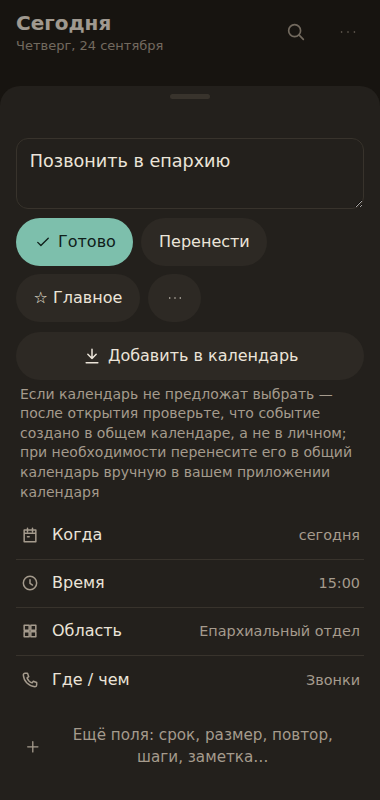
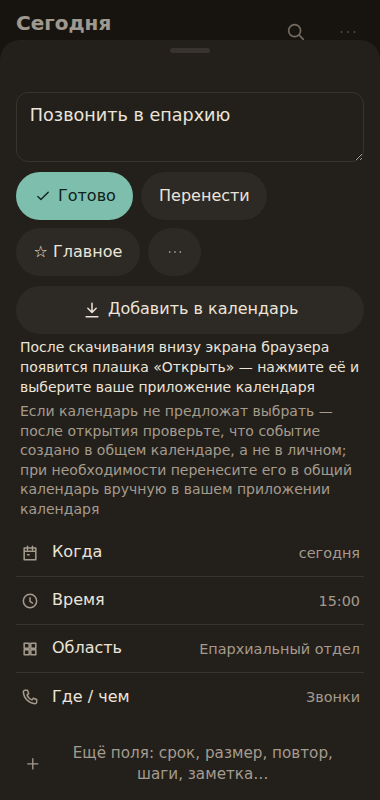
Подсказка под кнопкой скачивания: плашка «Открыть» внизу экрана браузера; без инструкций про шторку и «Загрузки»
Claude-Session: https://claude.ai/code/session_017GKqcB6R2Wkk87CHjqXcBD

diff --git a/docs/js/views/calendar.js b/docs/js/views/calendar.js
@@ -11,12 +11,7 @@ import * as st from '../store.js';
 import { buildIcs, checkIcs } from '../ics.js';
 import { fmtDay } from '../dates.js';
 
-export const STEPS = 'Файл готов. Смахните шторку уведомлений сверху экрана → нажмите на уведомление о загруженном файле → выберите ваше приложение календаря';
-export const HINTS = {
-  shared: 'Выберите ваше приложение календаря в списке приложений.',
-  opened: 'Если вместо календаря началась загрузка: откройте Загрузки → нажмите на файл → выберите ваше приложение календаря.',
-  downloaded: STEPS,
-};
+export const STEPS = 'После скачивания внизу экрана браузера появится плашка «Открыть» — нажмите её и выберите ваше приложение календаря';
 export const CHECK_HINT = 'Если календарь не предложат выбрать — после открытия проверьте, что событие создано в общем календаре, а не в личном; при необходимости перенесите его в общий календарь вручную в вашем приложении календаря';
 export const autoCalendar = () => st.settings().autoCalendar !== false;
 export const METHODS = {
@@ -188,9 +183,9 @@ export function calendarLink(text, name, { label = 'Добавить в кале
   }, icon('download', 20), label);
 }
 
-/** Заметный блок с шагами после скачивания. */
-export function stepsBlock() {
-  return h('div.cal-steps', { role: 'status' }, icon('check', 20), h('span', STEPS));
+/** Подсказка под кнопкой скачивания; после нажатия — та же, но заметным блоком. */
+export function stepsBlock(done = true) {
+  return done ? h('div.cal-steps', { role: 'status' }, icon('check', 20), h('span', STEPS)) : h('p.small.cal-hint', STEPS);
 }
 
 /** Файл события для задачи. Для закрытых областей в файле только «Встреча». */
@@ -212,8 +207,8 @@ export function calendarSheet(t, { kind, done = false } = {}) {
   let shown = done;
   return sheet((api) => h('div',
     h('p.muted', f.title + (t.date ? ' · ' + fmtDay(t.date, st.clock()) + (t.time ? ', ' + t.time : '') : '')),
-    shown ? stepsBlock() : null,
     calendarLink(f.text, f.name, { label: shown ? 'Скачать файл ещё раз' : 'Добавить в календарь', source: 'sheet', onDone: () => { shown = true; api.refresh(); } }),
+    stepsBlock(shown),
     h('p.muted.small.cal-hint', CHECK_HINT),
     shown ? h('button.btn.block', { onclick: () => api.close() }, 'Готово') : null,
   ), { title: 'Календарь' });

diff --git a/tests/e2e-diag.spec.js b/tests/e2e-diag.spec.js
@@ -139,9 +139,9 @@ test('одна пробная попытка: экран показывает п
   for (const t of types) expect(t).toBe('text/calendar;charset=utf-8');
   // по умолчанию — никаких программных кликов
   expect(await page.evaluate(() => window.__anchors)).toEqual([]);
-  await expect(dlg.getByText('Файл готов. Смахните шторку уведомлений сверху экрана → нажмите на уведомление о загруженном файле → выберите ваше приложение календаря')).toBeVisible();
+  await expect(dlg.locator('.cal-steps', { hasText: 'После скачивания внизу экрана браузера появится плашка «Открыть» — нажмите её и выберите ваше приложение календаря' })).toBeVisible();
   // без привязки к конкретному приложению календаря
-  expect(await dlg.innerText()).not.toMatch(/Яндекс/);
+  expect(await dlg.innerText()).not.toMatch(/Яндекс|шторк|Загрузк|уведомлени/);
   await expect(dlg.getByText(/выберите ваше приложение календаря/)).toBeVisible();
   await dlg.getByRole('button', { name: 'началась загрузка файла' }).click();
   await expect(pre).toContainText('На экране: началась загрузка файла');

diff --git a/docs/js/views/settings.js b/docs/js/views/settings.js
@@ -234,8 +234,8 @@ export function calendarDiagSheet() {
       last && !last.seen ? h('div.card',
         h('div', 'Что произошло на экране после последней попытки?'),
         h('div.chips.wrap', Object.keys(SEEN).map((k) => h('button.chip', { onclick: () => { markLast(k); api.refresh(); } }, SEEN[k])))) : null,
-      downloaded ? stepsBlock() : null,
       calendarLink(testIcs(), 'proverka.ics', { label: 'Скачать пробный файл', source: 'diag', onDone: () => { downloaded = true; api.refresh(); } }),
+      stepsBlock(downloaded),
       h('p.muted.small', 'Основной способ: вы сами нажимаете ссылку, файл события «Проверка планировщика (можно удалить)» на завтра, 10:00 скачивается. Остальные способы — только для проверки, по умолчанию не используются:'),
       h('div.chips.wrap', ['share', 'link', 'nav', 'auto'].map((k) => h('button.chip', { onclick: () => attempt(k) }, METHODS[k]))),
       h('div.row-btns',

diff --git a/docs/js/views/session.js b/docs/js/views/session.js
@@ -72,7 +72,6 @@ export function openRecordForm() {
       h('h2', 'Записано'),
       h('p', { style: { fontSize: '1.1rem', margin: 0 } }, r.client),
       h('p.muted', { style: { margin: 0 } }, sessionText(r, '', st.clock()).replace(/^сессия [^—]*— /, '')),
-      calDone ? h('div', { style: { maxWidth: '22rem', marginTop: '1rem' } }, stepsBlock()) : null,
       h('div', { style: { marginTop: '1rem', width: '100%', maxWidth: '22rem' } },
         calendarLink(sessionIcs(r, st.clock()), 'sessiya-' + r.start.date + '.ics', {
           label: calDone ? 'Скачать файл ещё раз' : 'Добавить в календарь', source: 'session',
@@ -81,7 +80,8 @@ export function openRecordForm() {
             calDone = true;
             s.refresh();
           },
-        })),
+        }),
+        stepsBlock(!!calDone)),
       h('p.muted.small.cal-hint', { style: { maxWidth: '22rem' } }, CHECK_HINT));
   }
 }

diff --git a/docs/js/views/task.js b/docs/js/views/task.js
@@ -199,11 +199,11 @@ export function openTask(id) {
     const calKind = calendarKind(t);
     const calFile = calKind && !done ? taskIcs(t, calKind) : null;
     const calBox = calFile ? h('div.cal-box',
-      calShown ? stepsBlock() : null,
       calendarLink(calFile.text, calFile.name, {
         label: calShown ? 'Скачать файл ещё раз' : 'Добавить в календарь', cls: '.btn.block', source: 'task',
         onDone: () => { calShown = true; s.refresh(); },
       }),
+      stepsBlock(!!calShown),
       h('p.muted.small.cal-hint', CHECK_HINT)) : null;
 
     return h('div.form',

diff --git a/docs/sw.js b/docs/sw.js
@@ -1,5 +1,5 @@
 // Service worker: кэш всего приложения. Данные (IndexedDB) он не трогает.
-const VERSION = 'v9';
+const VERSION = 'v10';
 const CACHE = 'planner-' + VERSION;
 const FILES = [
   './',

diff --git a/README.md b/README.md
@@ -150,16 +150,13 @@ GitHub Pages нужен только для того, чтобы один раз
   кнопка **«Добавить в календарь»**.
 - **Сессия, записанная ассистентом**, — кнопка «Добавить в календарь» на экране «Записано».
 
-Сразу после нажатия появляется заметный блок:
-«Файл готов. Смахните шторку уведомлений сверху экрана → нажмите на уведомление о загруженном
-файле → выберите ваше приложение календаря». Если уведомление уже смахнули — файл лежит в «Загрузках».
+Под кнопкой всегда есть подсказка, а после нажатия она выделяется заметным блоком:
+«После скачивания внизу экрана браузера появится плашка «Открыть» — нажмите её и выберите ваше приложение календаря».
 
 **Проверка на своём телефоне (сделайте один раз, в Chrome и в Яндекс.Браузере):**
 1. Сохраните задачу «проверка завтра в 10» → в сообщении внизу нажмите **«В календарь»**.
-2. Chrome: внизу мелькнёт «Файл скачан» / появится уведомление о загрузке. Яндекс.Браузер: панель
-   загрузки внизу или уведомление.
-3. Смахните шторку → нажмите уведомление о файле → выберите ваше приложение календаря → событие
-   «Проверка» на завтра, 10:00. Удалите его.
+2. Внизу экрана браузера появится плашка о скачанном файле с кнопкой **«Открыть»** — нажмите её.
+3. Выберите ваше приложение календаря → событие «Проверка» на завтра, 10:00. Удалите его.
 4. Если ничего не скачалось — Меню → Настройки → **«Диагностика календаря»** → «Скачать пробный
    файл» → «Скопировать текст» и пришлите этот текст.
 

diff --git a/DECISIONS.md b/DECISIONS.md
@@ -406,3 +406,13 @@ Chromium отсутствует.
   приложение, которое выбрал человек (обычно Google Календарь). Раздел README о настройке общего
   календаря в Яндексе оставлен: сам общий календарь по-прежнему там. Тесты проверяют, что на экране
   диагностики и в листе после скачивания слова «Яндекс» нет.
+
+## Подсказка после скачивания — плашка «Открыть»
+- Подсказка под кнопкой скачивания (в карточке задачи, в листе «Календарь», на экране сессии и в
+  диагностике): «После скачивания внизу экрана браузера появится плашка «Открыть» — нажмите её и
+  выберите ваше приложение календаря». Видна сразу под кнопкой; после нажатия та же фраза
+  становится заметным блоком. Инструкции про шторку уведомлений и меню «Загрузки» убраны из
+  приложения и README: на разных телефонах они ненадёжны, а плашка браузера внизу экрана
+  появляется сразу. Тесты проверяют, что под кнопкой и в диагностике нет слов про шторку,
+  уведомления и «Загрузки». Сообщение «Копия сохранена в «Загрузки»» у резервной копии оставлено:
+  это не инструкция для календаря, а место, где лежит файл копии.
